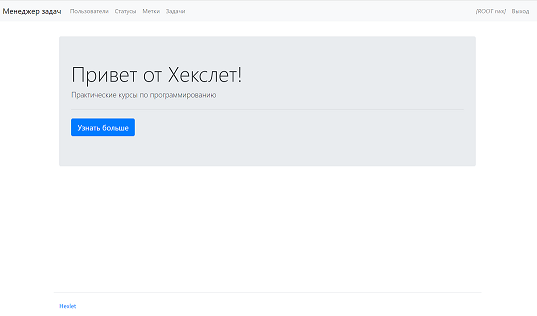
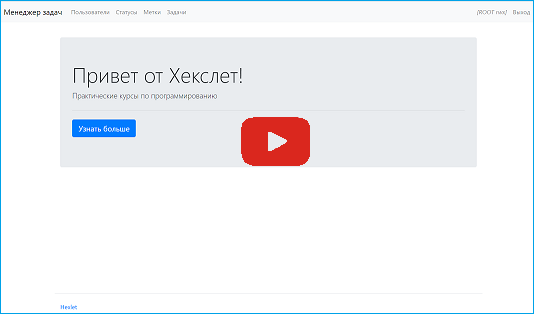
review#2

diff --git a/task_manager/settings.py b/task_manager/settings.py
@@ -162,7 +162,7 @@ ROLLBAR = {
 # https://docs.djangoproject.com/en/4.2/howto/static-files/
 STATIC_URL = "/static/"
 if not DEBUG:
-    STATIC_ROOT = os.path.join(BASE_DIR, 'staticfiles/')
+    STATIC_ROOT = os.path.join(BASE_DIR, 'staticfiles')
     STATICFILES_STORAGE = 'whitenoise.storage.CompressedManifestStaticFilesStorage'
 
 

diff --git a/README.md b/README.md
@@ -19,7 +19,9 @@ ticket management system
 
 ## demo version:
 https://task-managet-django.onrender.com/
-or
+
+or watch the video:
+
 [![Watch the video](staticfiles/images/Figaro_preview.png)](https://youtu.be/aBok39kZT9Q)
 
 ## technical information
